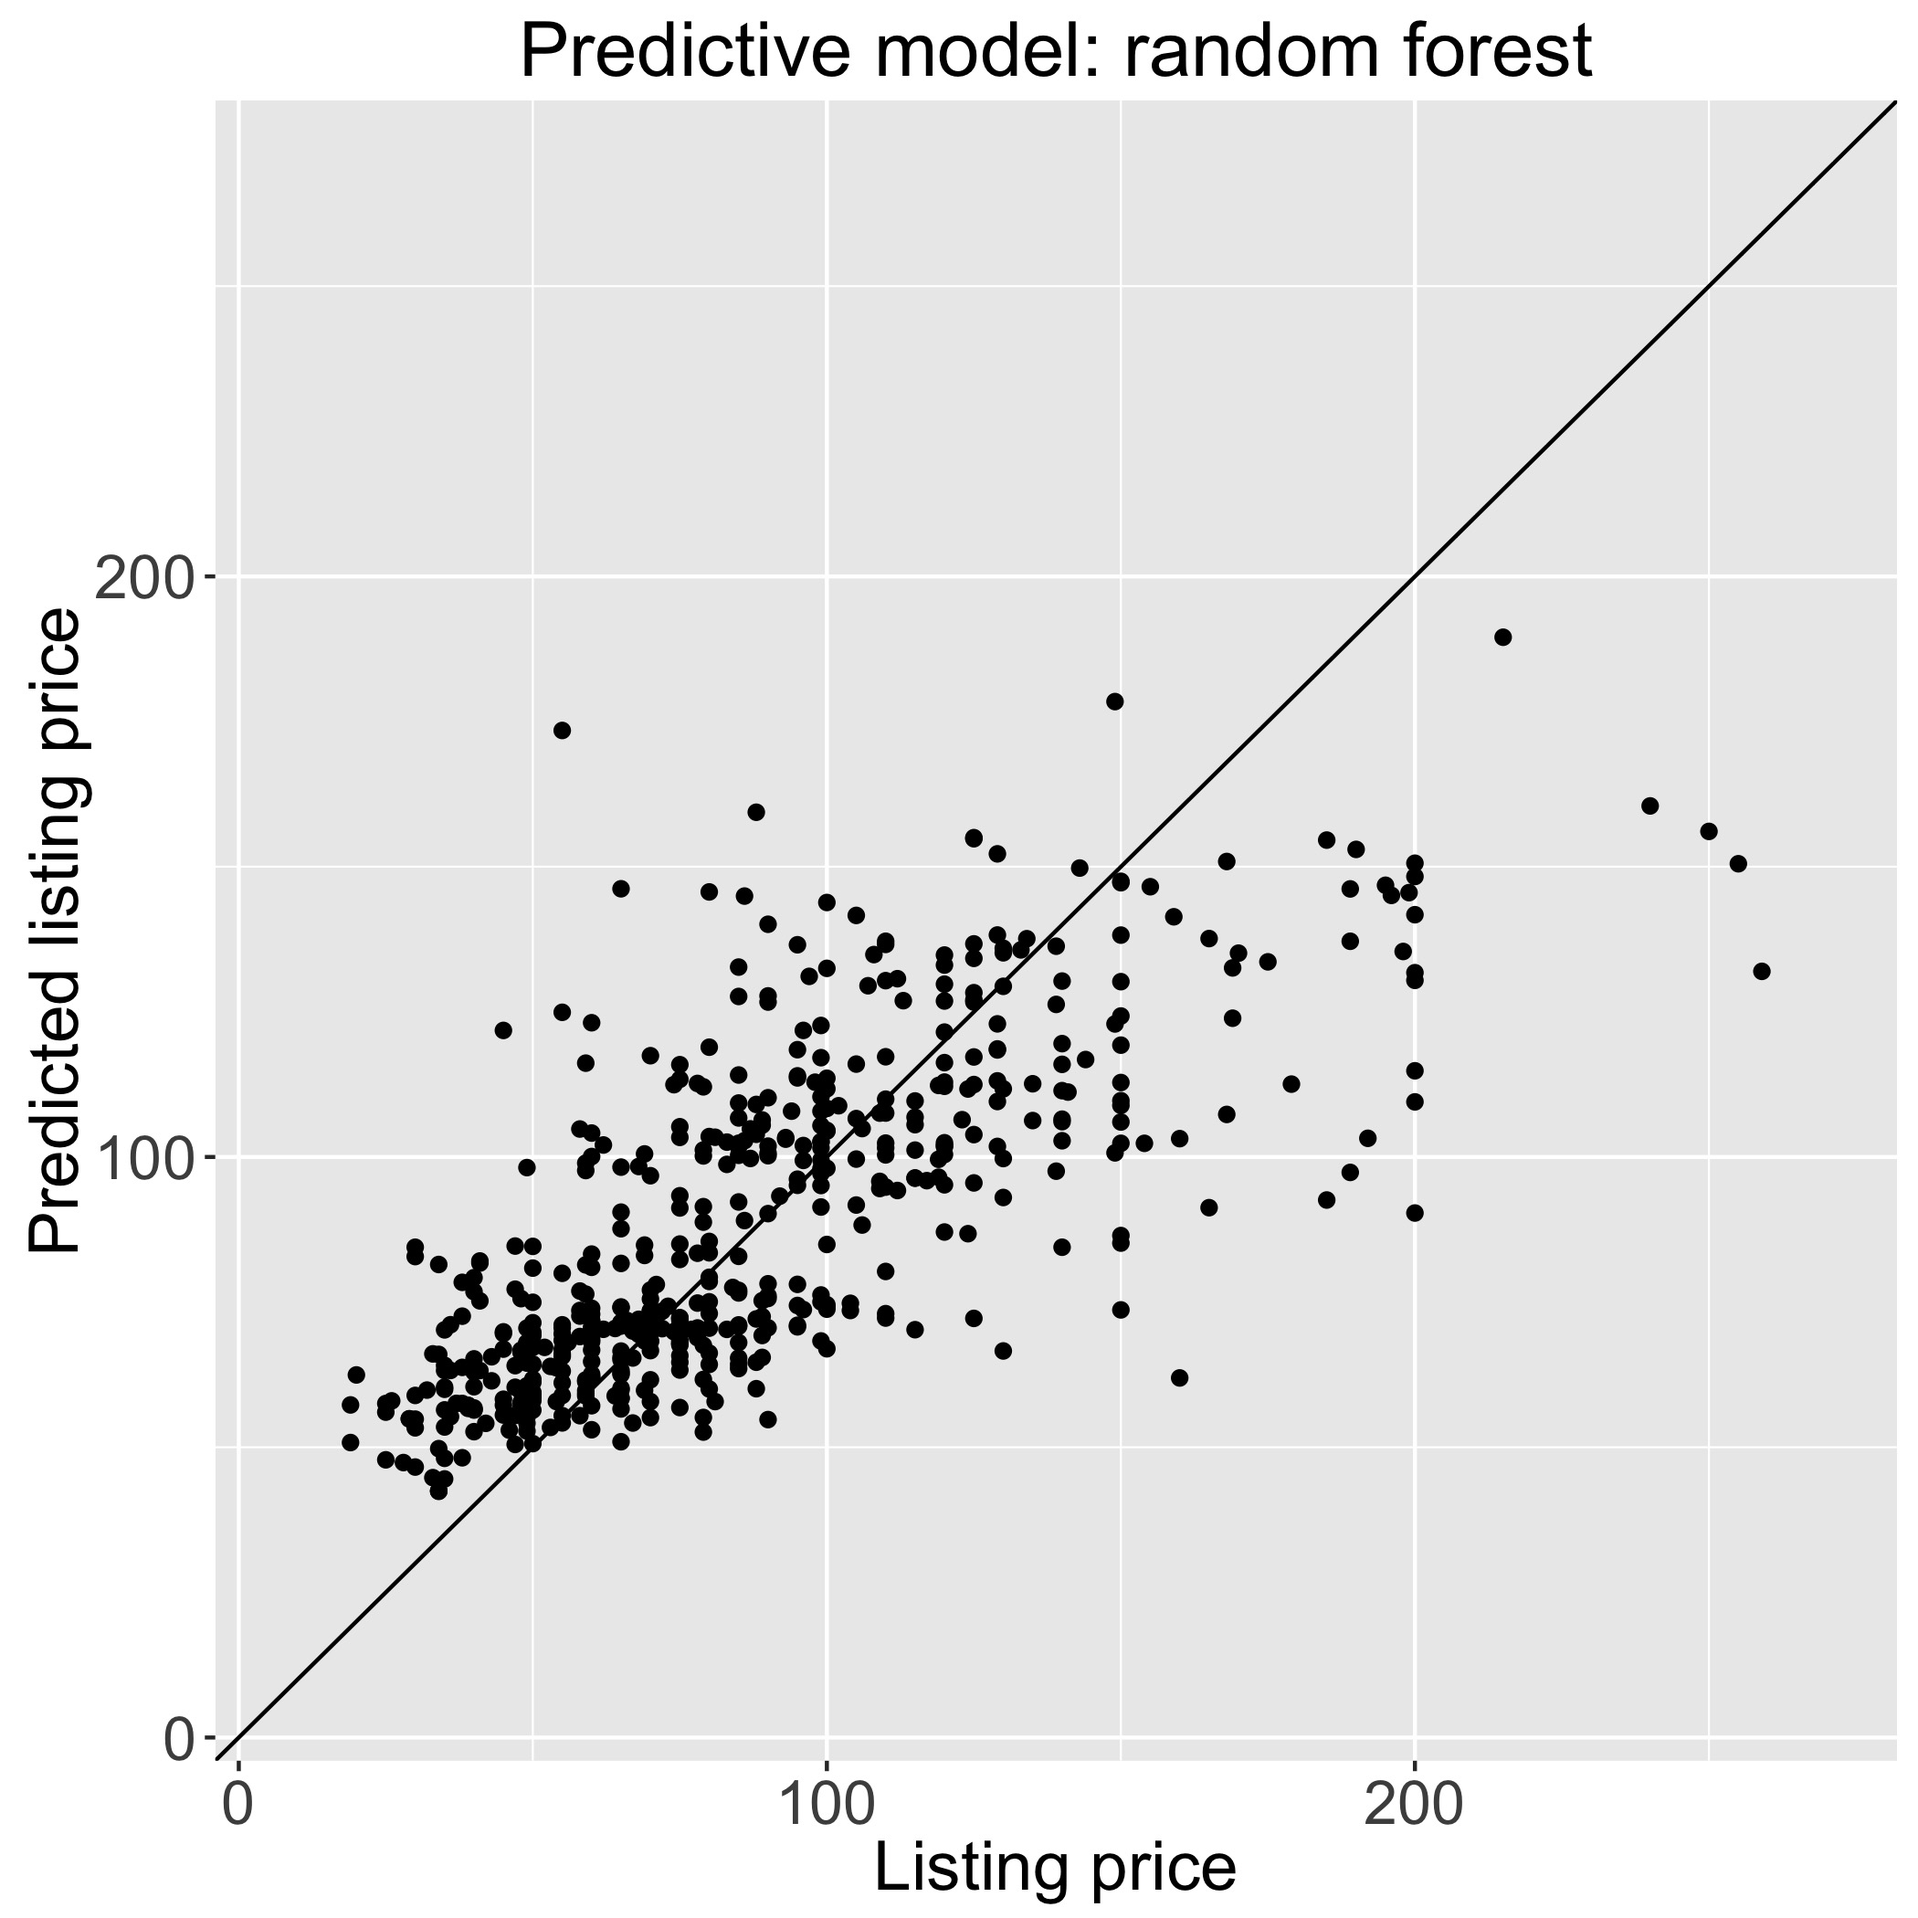
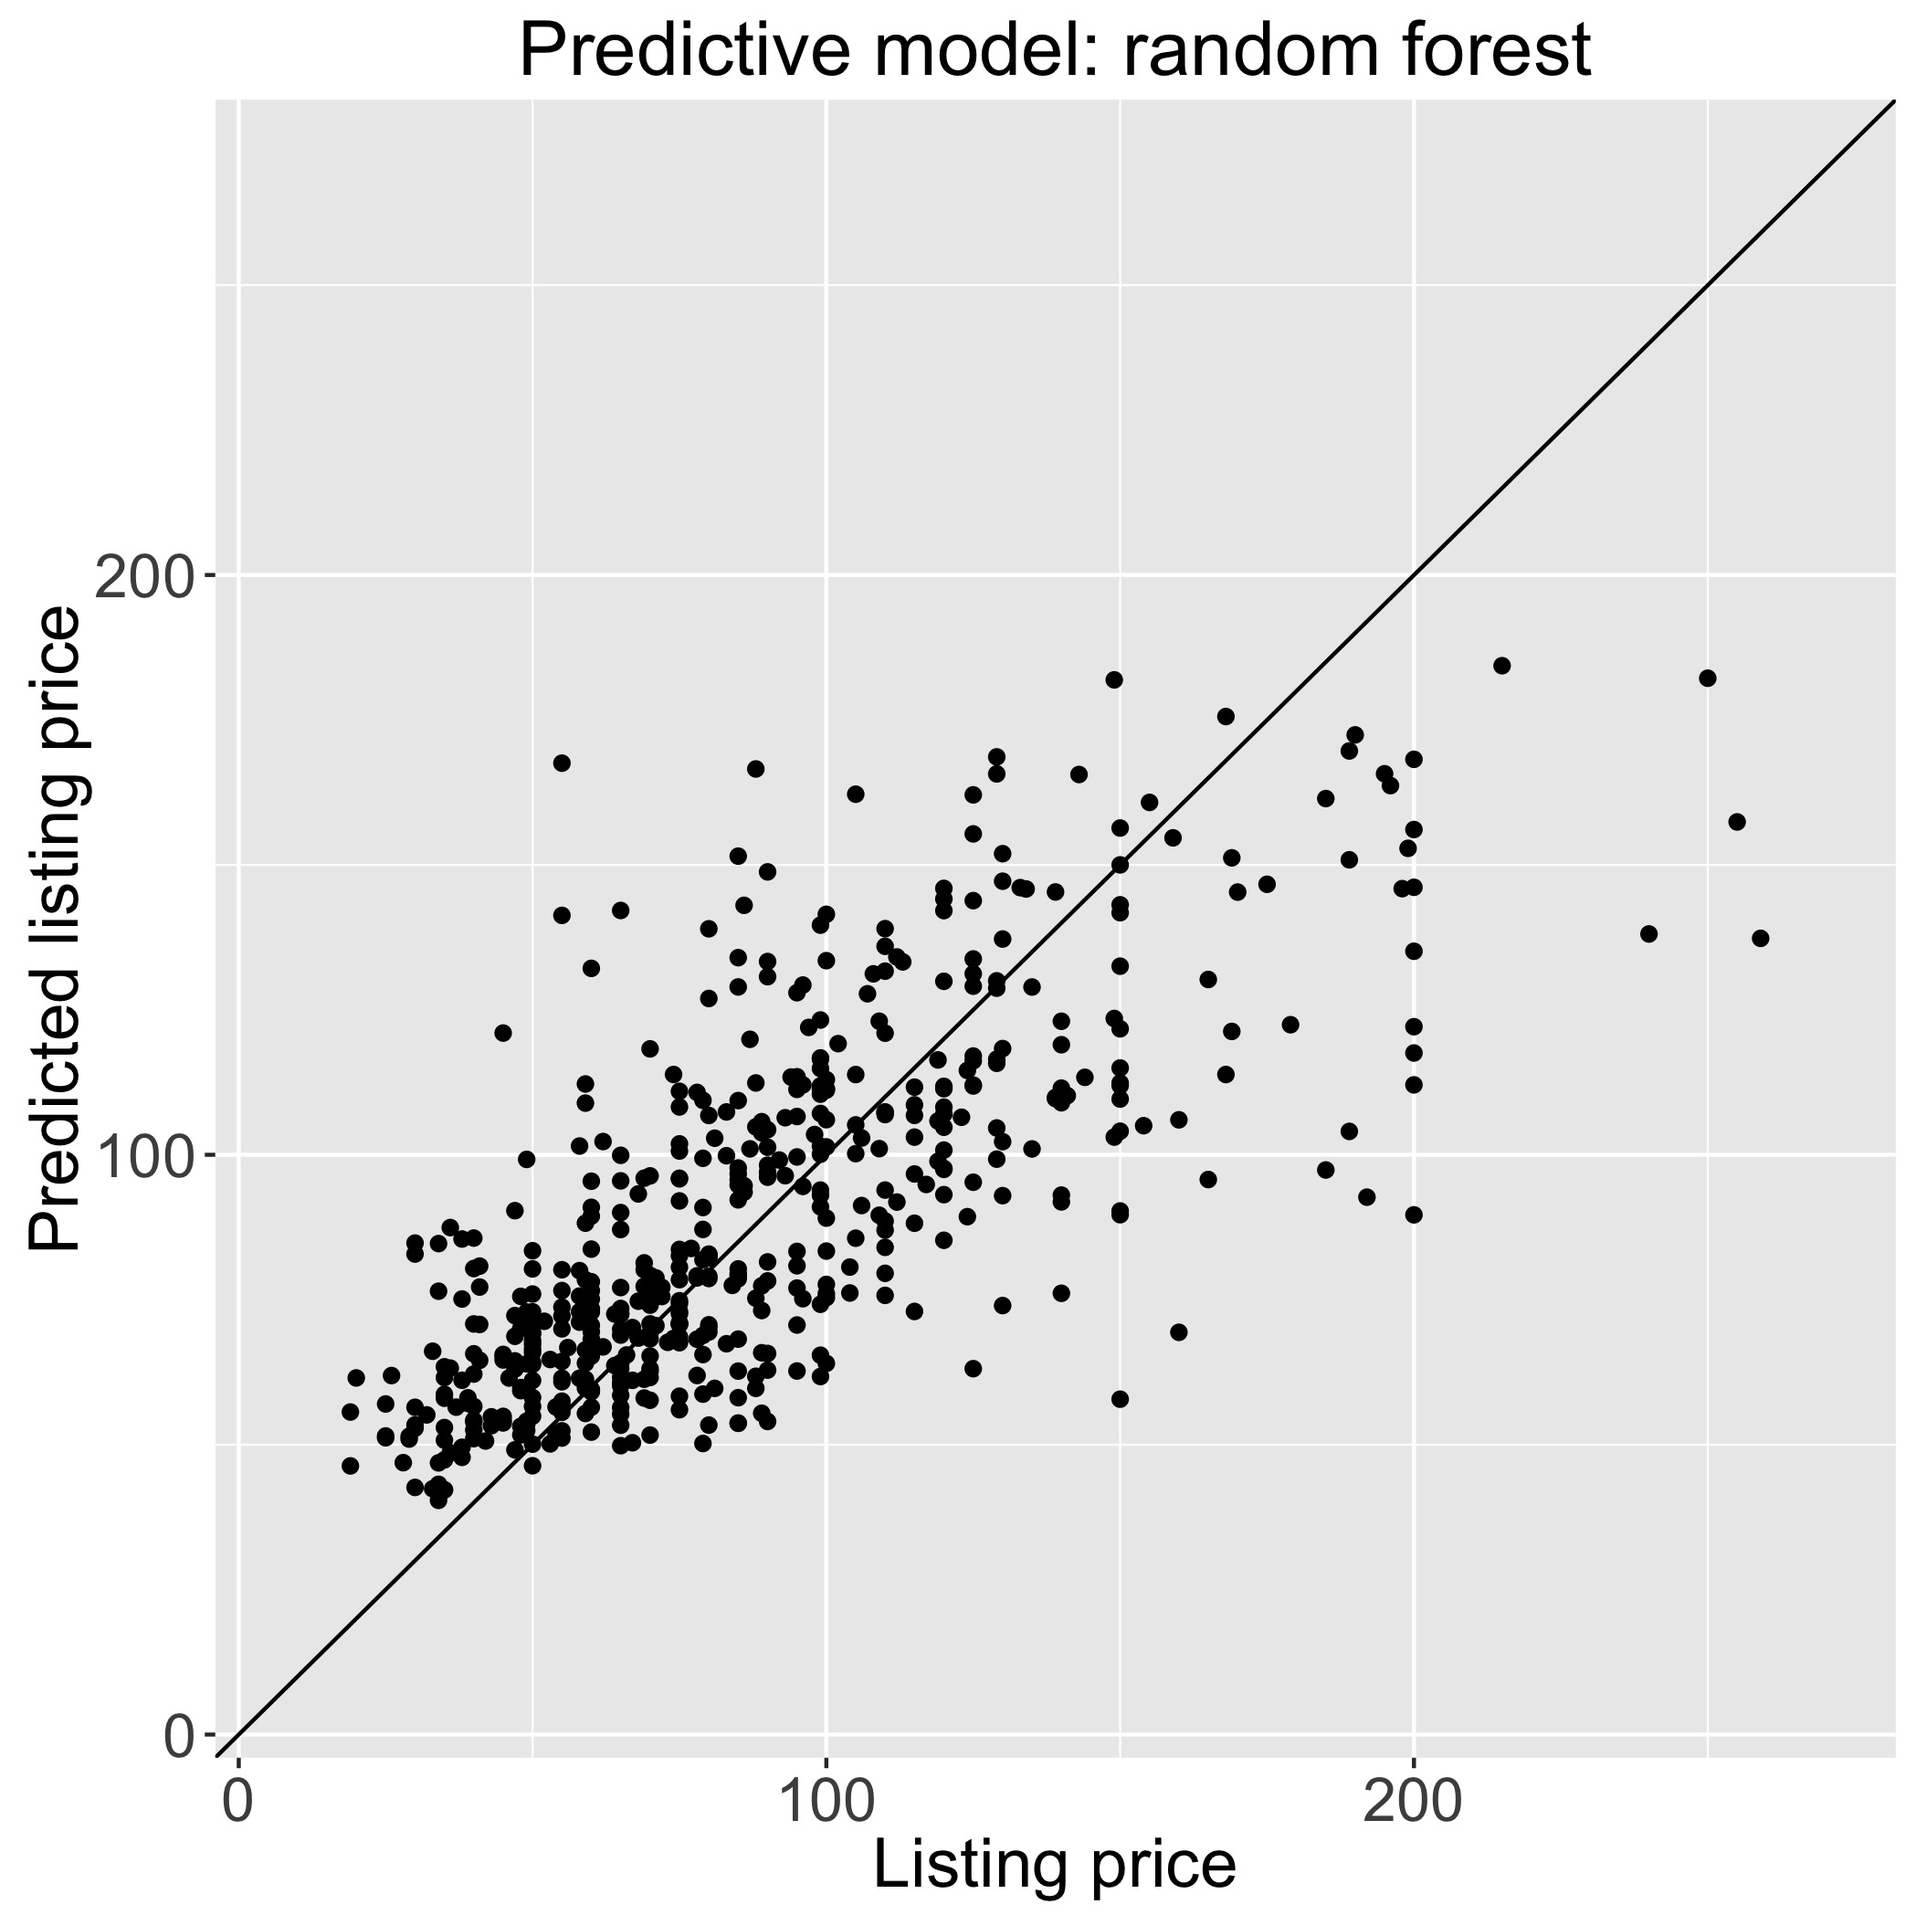
readme

diff --git a/README.md b/README.md
@@ -1,0 +1,47 @@
+## Scrape and model airbnb listings
+
+This repo contains some functions for scraping and cleaning apartment listings from the visible front end of airbnb.com, and some code exploring and modeling how the rental features relate to price.
+
+### Scraping
+
+The file **airbnbScrape.R** contains the function scrapeAirbnb(), which takes a string argument for city (format matching url for airbnb city searches, e.g. "New-York--NY"), number of pages to scrape (airbnb lists a max of 17 pages), whether to write to file, and rental type ("entire", "private", "all"). 
+
+```R
+dat <- scrapeAirbnb("Taos--NM", aptType="private")
+```
+
+The returned data frame may have duplicate listings. These can be removed with the function cleanAirbnb(). Pass this function the directory of files to clean. The function also optionally removes extreme outliers (less than Q1 - 3 * IQR, greater than Q3 - 3 * IQR), and splits the data into training and testing files for predictive modeling (these files are written into a subdirectory of the passed path called trnTstData). 
+ 
+```R
+trnDat <- cleanAirbnb("data", removeOutliers = F, trainingProp = 0.75)
+```
+ 
+### Exploration
+
+I scraped airbnb listings for the 5 biggest cities in the US: NYC, LA, Chicago, Houston, and Philadelphia. The file **airbnbExplore.R** contains code exploring the relationship of different listing features to price (2207 listings after cleaning and removal of 550 as a test set). 
+
+This exploration showed that key listing features related to price are: city, rental type, and number of people that a listing could accommodate. Plotted below are the relationships of these variables to price. 
+
+The figure below shows average price by city and rental type. Rentals of an entire space command a higher price than private rooms, and price overall roughly tracks the size of the city. 
+
+<img src="figs/priceTypeBars.jpeg" width="500" height="500"/>
+
+The figure below shows prices by the number of people a listing accommodates. Price increases linearly with accommodation size, and this slope varies somewhat by city, with NYC showing the biggest increases in price with increases in accommodation size.
+
+<img src="figs/priceAccomScatter.jpeg" width="500" height="500"/>
+
+### Prediction
+
+I created two types of predictive model of Airbnb listing prices: 1. a regression model, 2. a random forest model (see **predictAirbnb.R**). The parameters of these models were learned using k-fold cross validataion (k=10) on a training data set (random 80% of data), and tested on a held out testing set (remaining 20% of data). 
+ 
+Several sets of features were used for different iterations of the linear regression model. Ratings (average stars, number of reviews) did not prove to be useful features for predicting listing price, nor did the moderating effects of city observed in the plots above. The following features related notably to listing price: city, accommodation size, room type, number of bedrooms, property type, city centered latitude and longitude, and whether the renter had multiple listings. This model explained 51% of price variance in the testing set (RMSE = 29.2). The plot below shows the pricing predictions of this model relative to the observed prices on the testing set (diagonal line references perfect prediction).
+
+<img src="figs/pricePredScatter_lm.jpeg" width="450" height="450"/>
+
+The random forest model used all features in the regression model and additionally number of reviews, average stars, and number of beds (the correlation of the latter with accommodation size does not pose the same problem here as in the regression model). This model had a minimum node size of 5 and 1000 trees. I searched across the number of variables for the best number available for splitting at each node for the choice associated with the smallest RMSE (mtry=3). This model narrowly outperforms linear regression, explaining 54% of the variance (pseudo-R^2) in the test set (RMSE = 28.7). 
+
+<img src="figs/pricePredScatter_rf.jpeg" width="450" height="450"/>
+
+Both models suffer from notable underprediction for higher price listings. The sample is less dense here (prices are right skewed), perhaps accounting for some of the error. Predictive models of price may be improved with more training data across the range of prices, and potentially with more, and better, listing features (e.g. ammenities, minimum night stay, distance from transportation, reviews on apartment attributes such as the accuracy of ad, communication, cleanliness, etc.).
+
+
